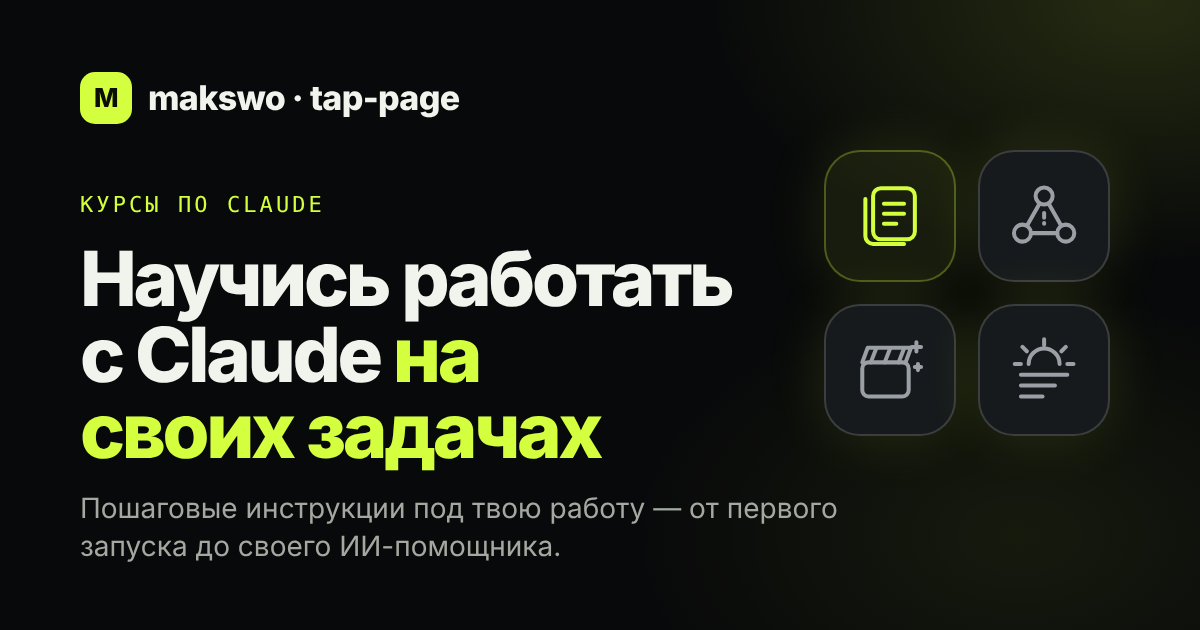
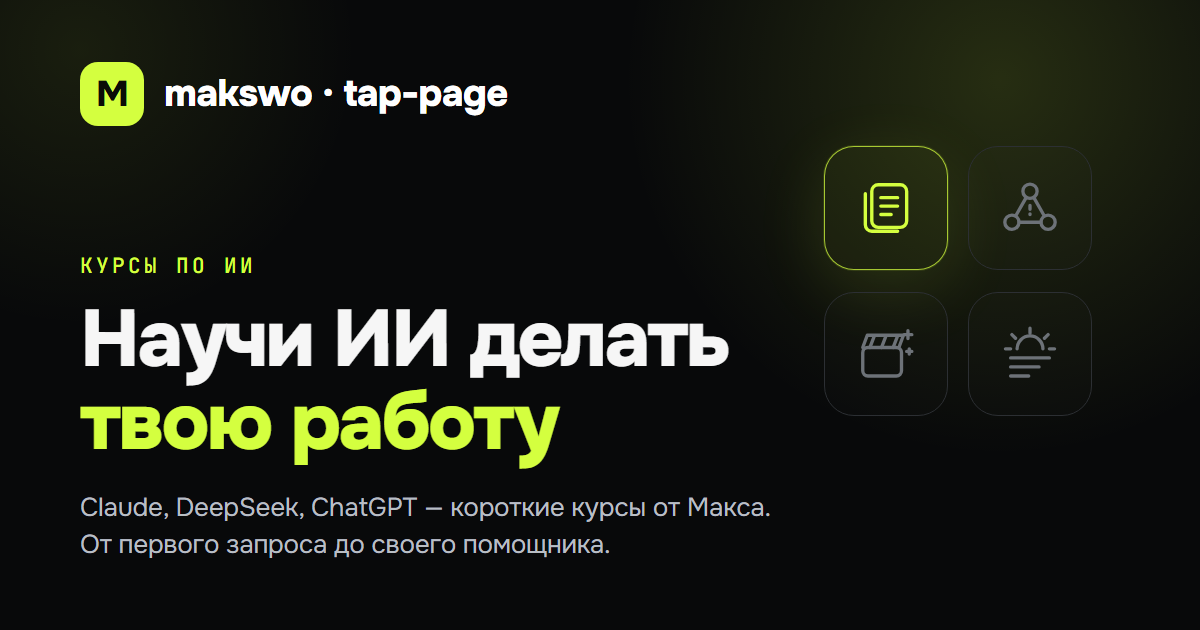
OG-превью: новые картинки 1200x630 под «Научи ИИ делать твою работу» и «Как начать с ИИ»

diff --git a/index.html b/index.html
@@ -13,7 +13,7 @@
 <meta property="og:url" content="https://tap-page.ru/">
 <meta property="og:title" content="Научи ИИ делать твою работу — курсы от Макса">
 <meta property="og:description" content="Не «пользоваться ИИ», а передать ему конкретные задачи: письма, таблицы, отчёты — по твоим правилам. Курсы по Claude, DeepSeek и ChatGPT.">
-<meta property="og:image" content="https://tap-page.ru/assets/og-home.png?v=2">
+<meta property="og:image" content="https://tap-page.ru/assets/og-home.png?v=3">
 <meta property="og:image:width" content="1200"><meta property="og:image:height" content="630">
 <meta property="og:locale" content="ru_RU">
 <meta name="twitter:card" content="summary_large_image">

diff --git a/start/index.html b/start/index.html
@@ -13,7 +13,7 @@
 <meta property="og:url" content="https://tap-page.ru/start">
 <meta property="og:title" content="Как начать с ИИ — личный туториал">
 <meta property="og:description" content="10 вопросов — инструкция под тебя и 50 готовых запросов в подарок.">
-<meta property="og:image" content="https://tap-page.ru/assets/og-start.png?v=2">
+<meta property="og:image" content="https://tap-page.ru/assets/og-start.png?v=3">
 <meta property="og:image:width" content="1200"><meta property="og:image:height" content="630">
 <meta property="og:locale" content="ru_RU">
 <meta name="twitter:card" content="summary_large_image">
